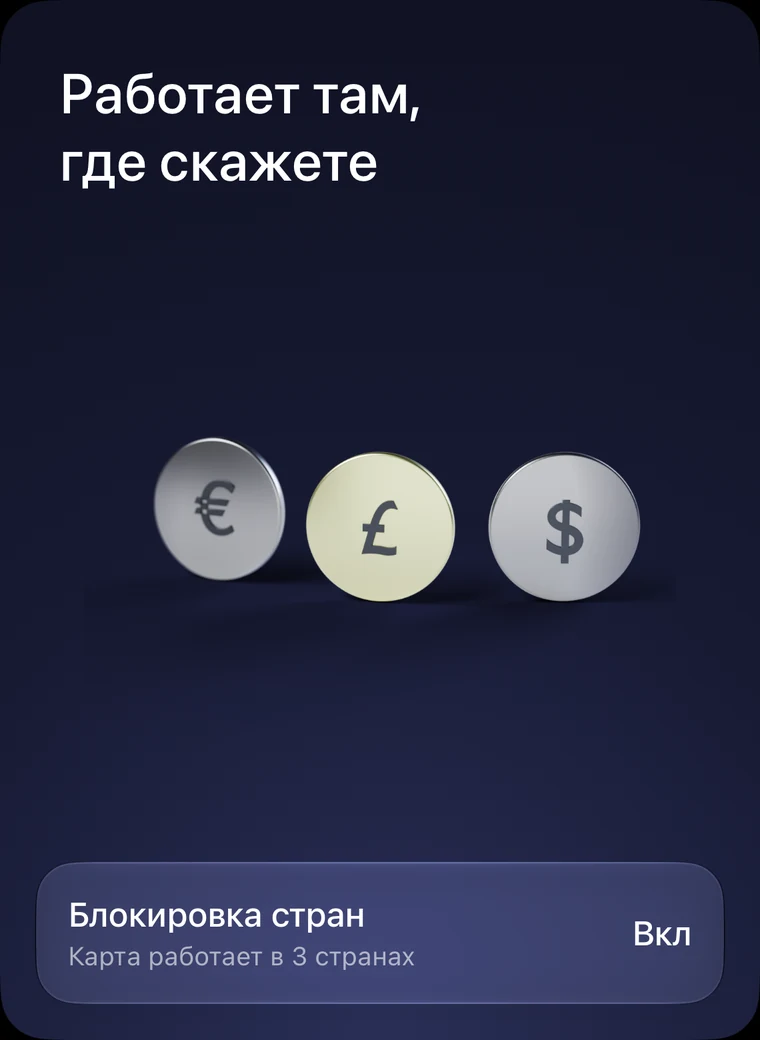
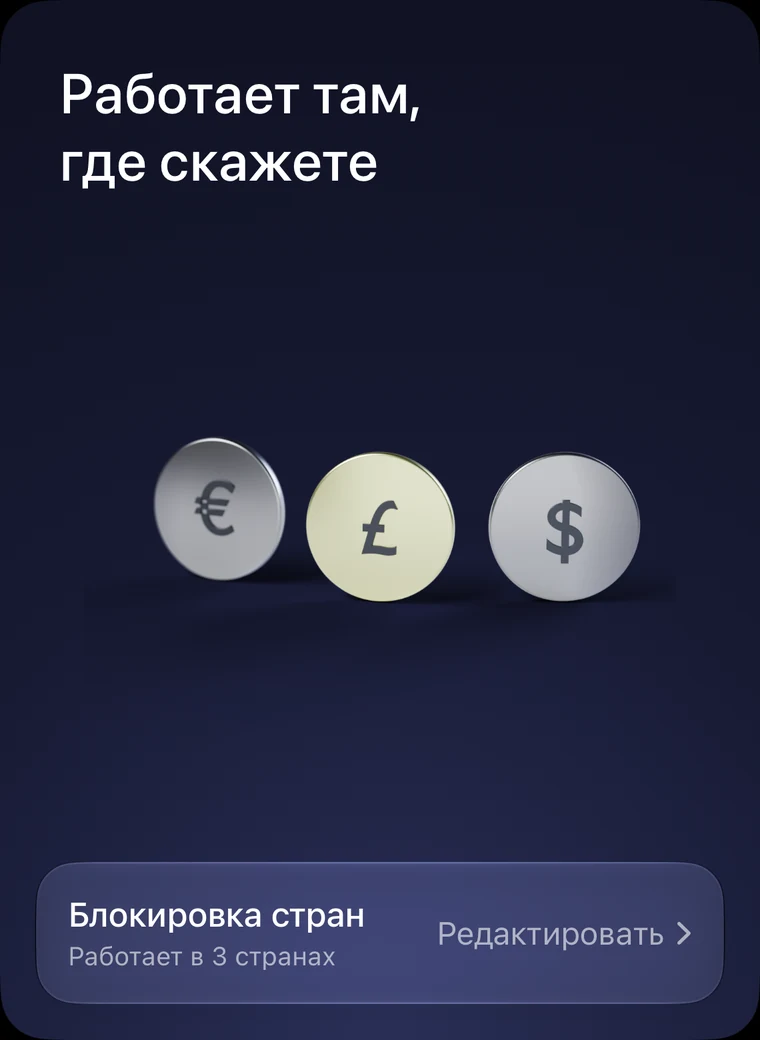
Country lock tile: Edit › instead of On

Changed region(s): [[0.0908, 0.8923, 0.5447, 0.9538], [0.575, 0.8923, 0.9079, 0.9231]]

diff --git a/lib/home-copy.ts b/lib/home-copy.ts
@@ -17,7 +17,7 @@ export const homeCopy = {
         { title: "Your money at a glance", chip: { title: "Coffee, Brick Lane", meta: "08:42 · Midnight •• 4587", value: "−£3.60" } },
         { title: "Limits that hold", chip: { title: "£612 left of £1,000", meta: "Resets on the 1st of each month", progress: 61 } },
         { title: "Freeze in one tap", chip: { title: "Card frozen", meta: "Every payment is paused", toggle: true } },
-        { title: "Works where you say", chip: { title: "Country lock", meta: "Your card works in 3 countries", value: "On" } }
+        { title: "Works where you say", chip: { title: "Country lock", meta: "Your card works in 3 countries", value: "Edit ›" } }
       ]
     },
     more: {
@@ -101,7 +101,7 @@ export const homeCopy = {
         { title: "Деньги на виду", chip: { title: "Кофе, Brick Lane", meta: "08:42 · Midnight •• 4587", value: "−£3.60" } },
         { title: "Лимиты, которые работают", chip: { title: "Осталось £612 из £1 000", meta: "Обновляется 1-го числа", progress: 61 } },
         { title: "Заморозка в одно касание", chip: { title: "Карта заморожена", meta: "Все платежи на паузе", toggle: true } },
-        { title: "Работает там, где скажете", chip: { title: "Блокировка стран", meta: "Карта работает в 3 странах", value: "Вкл" } }
+        { title: "Работает там, где скажете", chip: { title: "Блокировка стран", meta: "Работает в 3 странах", value: "Редактировать ›" } }
       ]
     },
     more: {
